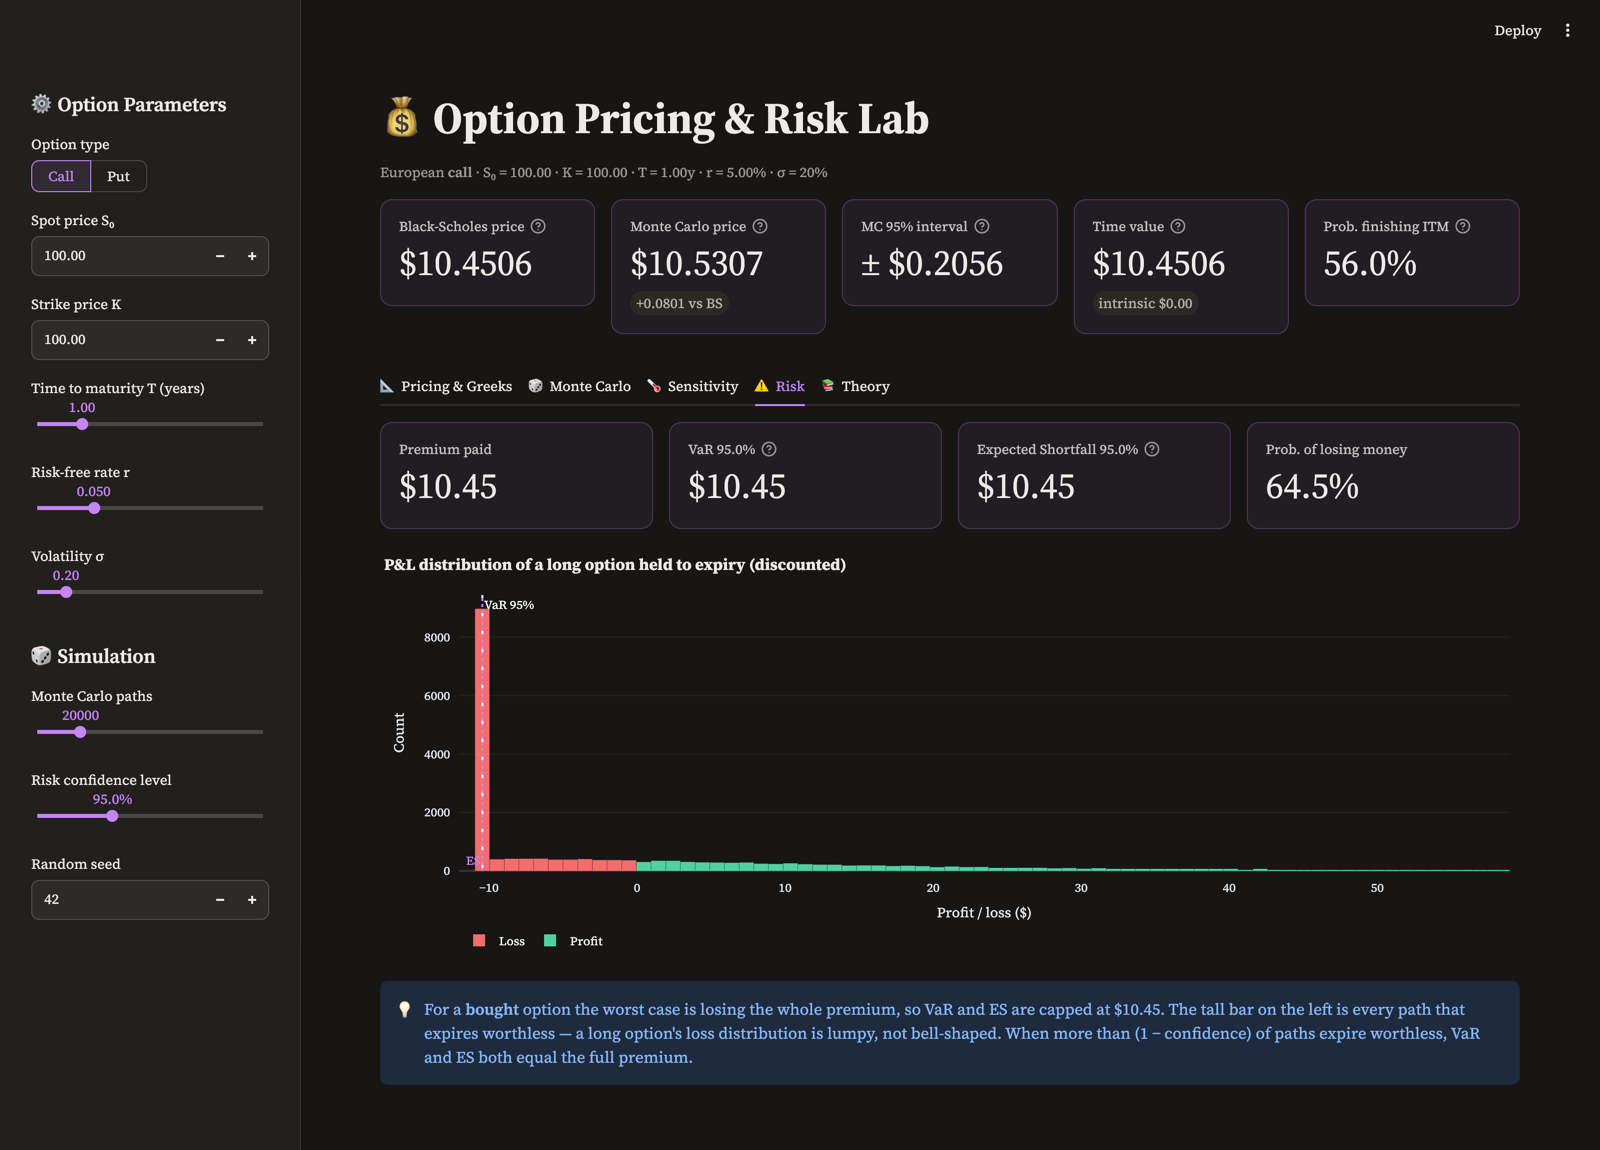
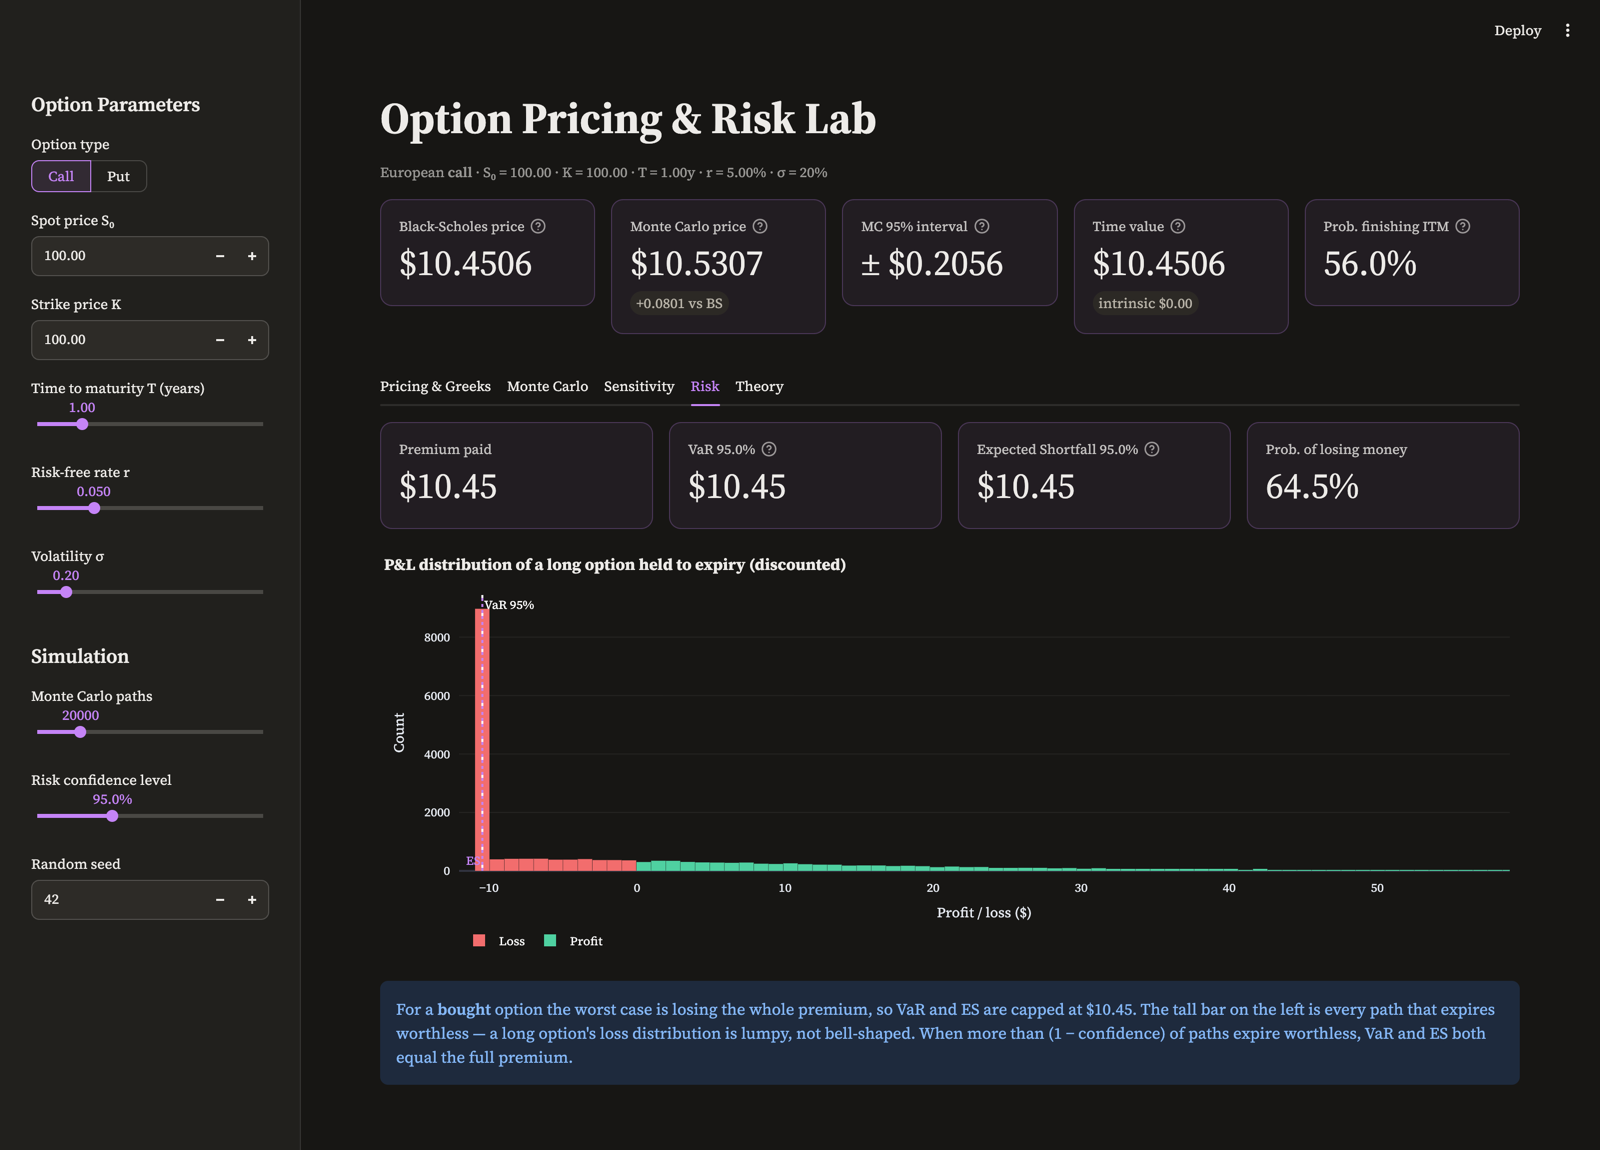
Remove emojis from app and README; refresh screenshots and overview figures

diff --git a/option_pricing.py b/option_pricing.py
@@ -5,7 +5,7 @@ from scipy.stats import norm
 
 from models import black_scholes, greeks, monte_carlo_option, simulate_paths
 
-st.set_page_config(page_title="Options Pricing", page_icon="💰", layout="wide")
+st.set_page_config(page_title="Options Pricing", layout="wide")
 
 ACCENT, BLUE, RED, GREEN, MUTED = "#c584f7", "#5fa8f5", "#f26d6d", "#4fd1a1", "#8b8b9a"
 st.markdown(
@@ -39,7 +39,7 @@ def vline(fig, x, label, color, dash="dash", pos="top right"):
 
 # ---------------- Sidebar inputs ----------------
 with st.sidebar:
-    st.header("⚙ Option Parameters")
+    st.header("Option Parameters")
     option_type = st.segmented_control("Option type", ["call", "put"], default="call",
                                        format_func=str.capitalize) or "call"
     S = st.number_input("Spot price  S₀", min_value=0.01, value=100.0, step=1.0)
@@ -48,7 +48,7 @@ with st.sidebar:
     r = st.slider("Risk-free rate  r", 0.0, 0.20, 0.05, 0.005, format="%.3f")
     sigma = st.slider("Volatility  σ", 0.01, 1.50, 0.20, 0.01)
 
-    st.header("🎲 Simulation")
+    st.header("Simulation")
     simulations = st.slider("Monte Carlo paths", 1_000, 100_000, 20_000, 1_000)
     confidence = st.select_slider("Risk confidence level", [0.90, 0.95, 0.975, 0.99], value=0.95,
                                   format_func=lambda c: f"{c:.1%}")
@@ -74,7 +74,7 @@ VaR = -np.percentile(pnl, (1 - confidence) * 100)
 ES = -pnl[pnl <= -VaR].mean()
 
 # ---------------- Header & KPIs ----------------
-st.title("💰 Option Pricing & Risk Lab")
+st.title("Option Pricing & Risk Lab")
 st.caption(f"European **{option_type}** · S₀ = {S:,.2f} · K = {K:,.2f} · "
            f"T = {T:.2f}y · r = {r:.2%} · σ = {sigma:.0%}")
 
@@ -91,7 +91,7 @@ k5.metric("Prob. finishing ITM", f"{prob_itm:.1%}", help="Risk-neutral N(d₂) (
 
 st.write("")
 tab_price, tab_mc, tab_sens, tab_risk, tab_theory = st.tabs(
-    ["📐 Pricing & Greeks", "🎲 Monte Carlo", "🌡 Sensitivity", "⚠ Risk", "📚 Theory"]
+    ["Pricing & Greeks", "Monte Carlo", "Sensitivity", "Risk", "Theory"]
 )
 
 # ---------------- Pricing & Greeks ----------------
@@ -218,7 +218,6 @@ with tab_risk:
         f"${bs_price:,.2f}. The tall bar on the left is every path that expires worthless — "
         "a long option's loss distribution is lumpy, not bell-shaped. When more than (1 − confidence) of paths "
         "expire worthless, VaR and ES both equal the full premium.",
-        icon="💡",
     )
 
 # ---------------- Theory ----------------

diff --git a/README.md b/README.md
@@ -1,4 +1,4 @@
-# 💰 Option Pricing & Risk Lab
+# Option Pricing & Risk Lab
 
 An interactive Streamlit dashboard for pricing European options and studying their risk. It prices every option two ways, with the **closed-form Black-Scholes formula** and with **Monte Carlo simulation**. You can watch the simulation converge to the exact answer, see how the price reacts to each input, and measure the downside of holding the option.
 
@@ -54,7 +54,7 @@ All numbers are measured on the reference contract (at-the-money call, S₀ = K 
 
 ## A tour of the dashboard
 
-### 1. 📐 Pricing & Greeks
+### 1. Pricing & Greeks
 
 The top row compares the two engines. Black-Scholes gives the exact price, and the Monte Carlo card shows how far the simulation landed from it. The **MC 95% interval** card shows the simulation's own uncertainty, which shrinks with √N.
 
@@ -62,7 +62,7 @@ The chart plots the option's value today against its payoff at expiry. The **sha
 
 ![Pricing & Greeks](docs/screenshots/pricing.png)
 
-### 2. 🎲 Monte Carlo
+### 2. Monte Carlo
 
 - **Left:** 150 simulated geometric Brownian motion paths, with the 5th, 50th and 95th percentiles.
 - **Right:** the distribution of terminal prices S_T. Paths that finish in the money are highlighted, and the strike and forward price are marked.
@@ -70,14 +70,14 @@ The chart plots the option's value today against its payoff at expiry. The **sha
 
 ![Monte Carlo](docs/screenshots/montecarlo.png)
 
-### 3. 🌡 Sensitivity
+### 3. Sensitivity
 
-- **Heatmap:** the option price across a grid of spot and volatility values. The ✕ marks your current inputs.
+- **Heatmap:** the option price across a grid of spot and volatility values. The white cross marks your current inputs.
 - **Greek profiles:** pick any Greek and see it across spot prices at three maturities. As expiry approaches, delta becomes a step function while gamma and theta spike at the strike. This is why short-dated at-the-money options are the hardest to hedge.
 
 ![Sensitivity](docs/screenshots/sensitivity.png)
 
-### 4. ⚠ Risk
+### 4. Risk
 
 This tab models the P&L of **buying the option at its fair price and holding it to expiry**. VaR and Expected Shortfall are read straight off the simulated distribution.
 
@@ -85,7 +85,7 @@ A long option's P&L is not bell-shaped. Every path that expires worthless loses 
 
 ![Risk](docs/screenshots/risk.png)
 
-### 5. 📚 Theory
+### 5. Theory
 
 A reference page with every formula the app uses.
 
